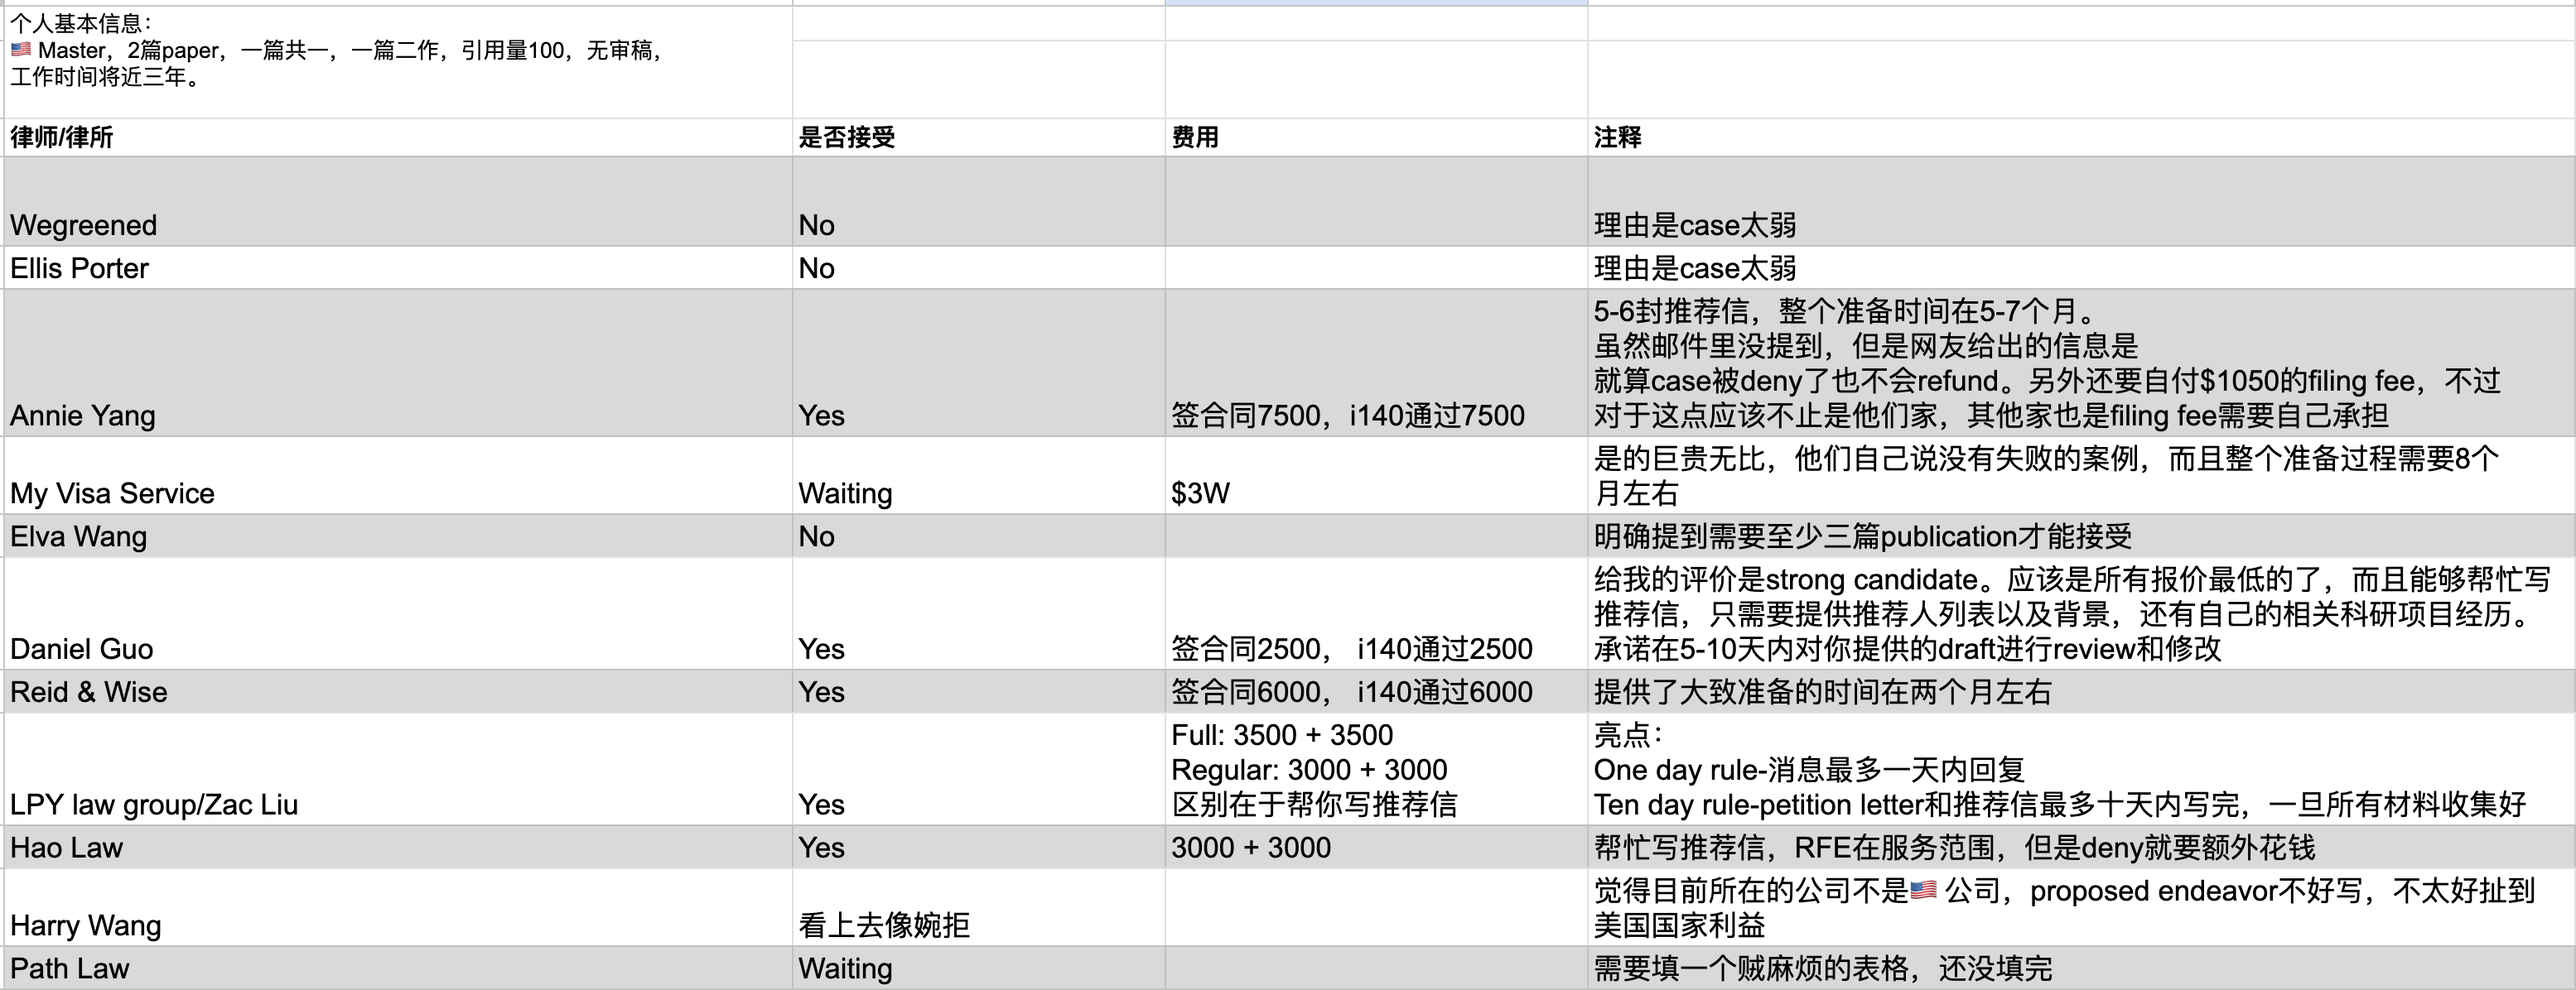
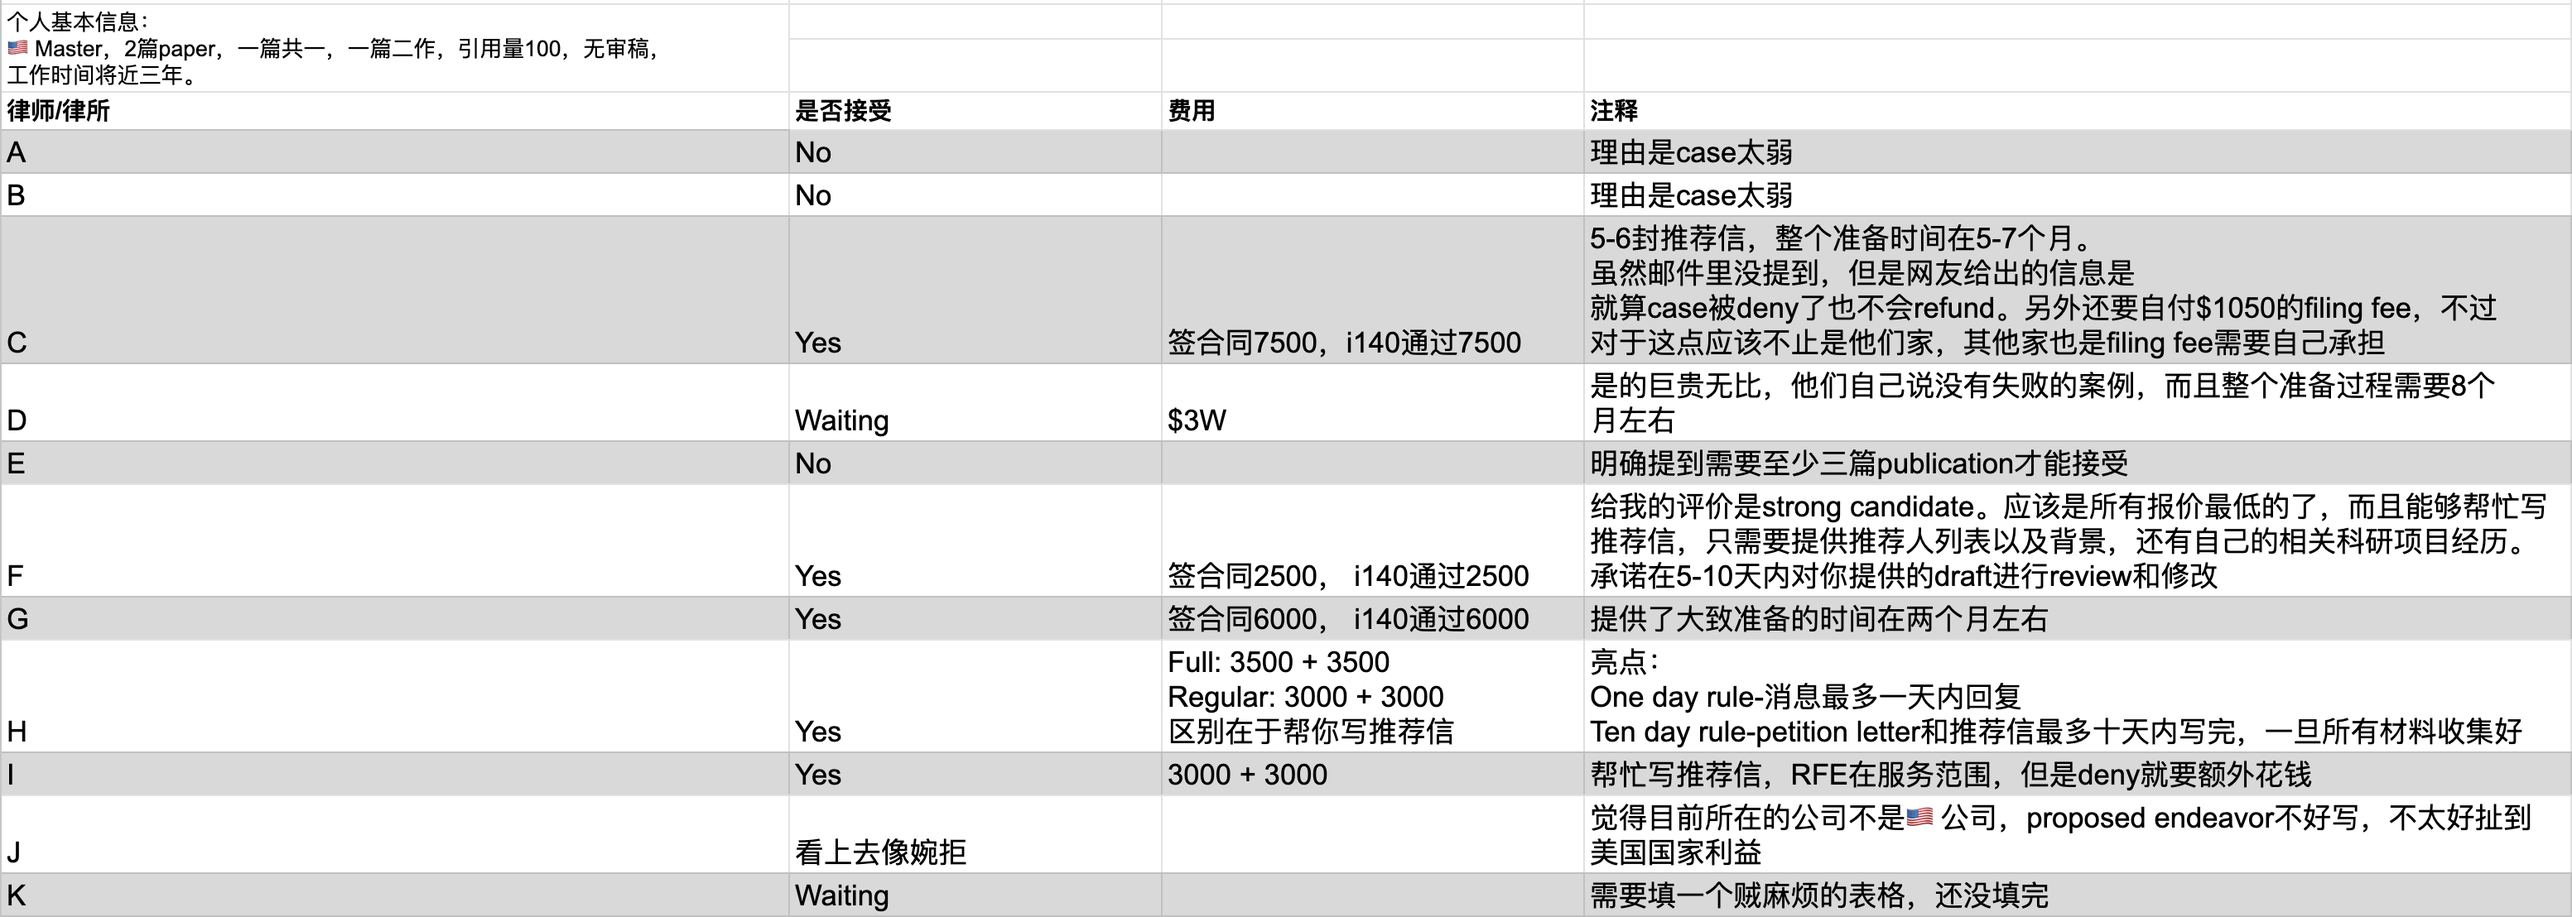
update

diff --git a/source/_posts/misc-niw.md b/source/_posts/misc-niw.md
@@ -34,13 +34,13 @@ Updating
 
 说干就干，立马一顿搜索，在小红书和一亩三分地找各种NIW相关律师推荐和极弱case通过案例，给了我极大的信心。接下来就是化身海王，各种联系律所/律师，像做这些移民相关的律师，都有个免费评估的服务，几乎我看的所有律所都有。不嫖白不嫖，一顿噼里啪啦发简历+个人学术主页。就我个人体验而言，几乎所有的律师能都做到在一个工作日内回复，告诉你评估结果，你是否有机会申请NIW，然后会附上一些文档，里面有详细的申请过程和费用清单。有的律师还主动提出了可以约一个电话来进行答疑。我觉得前期选择律师这是非常重要的一步，这个过程不仅是能对各个律所进行很好的横向对比，而且还能通过高效的对话对一些知识盲区查漏补缺，不断完善对这个事情的一个认知程度。就像我第一次和一个律所打电话，才知道了NIW的I140可以用来续H1B，虽然这可能会是一个很常规的知识，但它就是我之前所不知道的。
 
-由于个人时间和精力有限，在查阅了网友的总结之后，选了几家出镜率比较高的律所进行咨询。我是06/07开始咨询第一家律所的，直到今天06/10，大概问了有11家律所，结果各不相同，费用也是大相径庭。简单做了一个表进行总结，方便后续自己做决定。希望有缘人也能看到这条blog，或许能帮到一些。
+由于个人时间和精力有限，在查阅了网友的总结之后，选了几家出镜率比较高的律所进行咨询。我是06/07开始咨询第一家律所的，直到今天06/10，大概问了有11家律所，结果各不相同，费用也是大相径庭。简单做了一个表进行总结，方便后续自己做决定。希望有缘人也能看到这条blog，或许能帮到一些。因为在Agreement里面有提到不能disclose相关评估信息，所以律所名字做了模糊处理。
 
 <p align="center">
     <img src="niwatterney.png" title="A regular image" width="1000px" height="800px">
 </p>
 
-写这条blog的时候刚做完这张表格，还在考虑用哪一家。除了太贵的那几个（过万），其他其实都能接受。我个人其实很看重整个case的准备时间，像有几个和我说要半年左右的，真的基本就想pass了。有问过几个做过NIW的朋友，都说这个时间太夸张了，最多三四个月就能搞定所有材料。然而很搞笑的是几乎所有律所都不会告诉你整个时间线，要花多久时间准备材料，需要你自己多问一嘴，他们才会告诉你一个历史数据。所以这也是为什么一定要多一步电话咨询的过程。有很多问题都是一开始隐性的，只有开始做了才会发现这不是我想要的，前期功课真的要做足才能避开所有对你不利的因素。看这个样子我很有可能会选Daniel Guo，如果他能给到一个合理的时间范围。这个帖子会持续更新NIW的申请进度，到时候再回来看看我到底选了谁。
+写这条blog的时候刚做完这张表格，还在考虑用哪一家。除了太贵的那几个（过万），其他其实都能接受。我个人其实很看重整个case的准备时间，像有几个和我说要半年左右的，真的基本就想pass了。有问过几个做过NIW的朋友，都说这个时间太夸张了，最多三四个月就能搞定所有材料。然而很搞笑的是几乎所有律所都不会告诉你整个时间线，要花多久时间准备材料，需要你自己多问一嘴，他们才会告诉你一个历史数据。所以这也是为什么一定要多一步电话咨询的过程。有很多问题都是一开始隐性的，只有开始做了才会发现这不是我想要的，前期功课真的要做足才能避开所有对你不利的因素。看这个样子我很有可能会选比较便宜的那一家，如果他能给到一个合理的时间范围。这个帖子会持续更新NIW的申请进度，到时候再回来看看我到底选了谁。
 
 正好在这儿记录一些和律师沟通可以问的一些问题，也算是给自己做个笔记了。
 
@@ -53,5 +53,7 @@ Updating
 7. 如果deny，是否有退款？退款政策是什么？
 8. 如果我一个月收集完成了所有我负责的材料，你们能多快寄出我的case？
 9. 你们历史的通过率是多少？你觉得我的case通过几率如何？
+10. Refile情况下filing fee是不是还要重新付？
+11. 之前有咨询过一个律师，有提到我现在公司不是美国公司，写proposed endeavor可能不太好写，因为不太容易和美国国家利益扯上关系，这个你怎么看？
 
 产假结束前（06/17）希望能敲定律所，后面就专心准备材料了. 现在真的是每天晚上睡觉都在想这事儿，一想到每天都有那么多人提交NIW，队伍越来越长，越晚一天对自己越不利。所以啊，快点行动起来。
